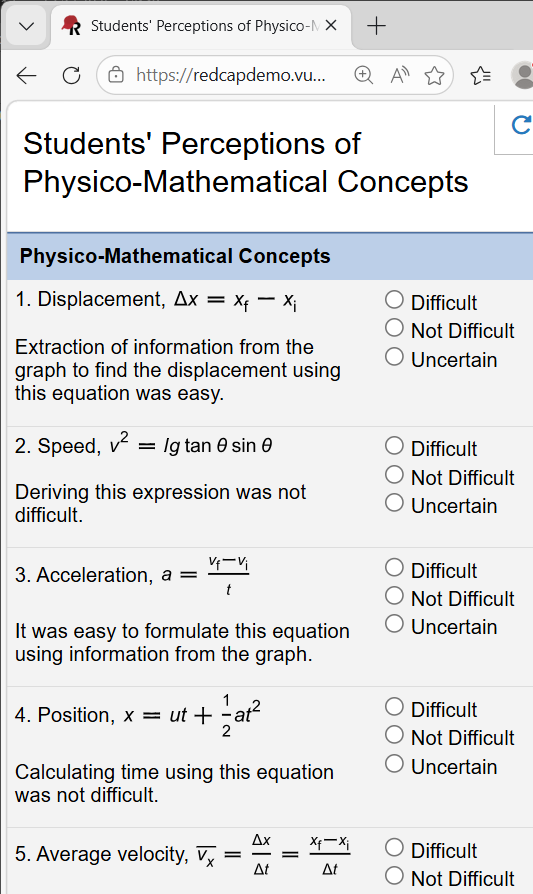
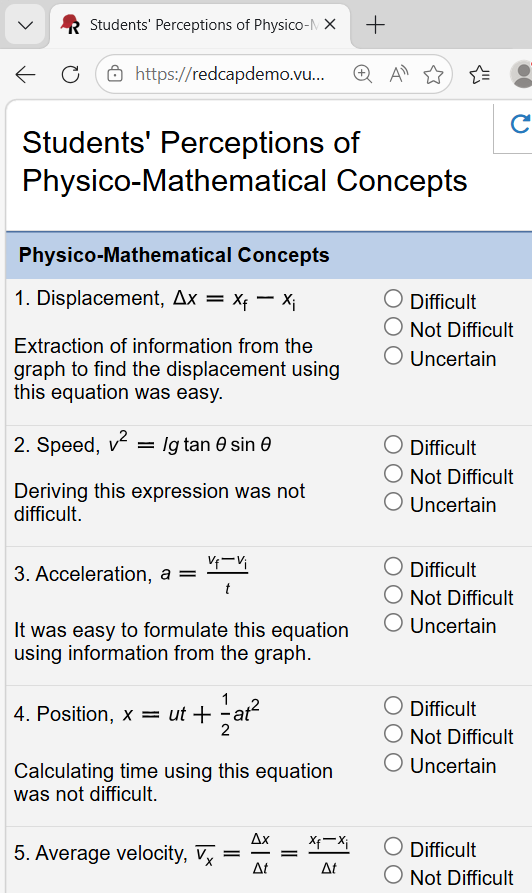
Image refinements.

diff --git a/README.md b/README.md
@@ -6,8 +6,8 @@ REDCap [1, 2] is a platform for managing online data collection. LaTeX-style mar
 
 ---
 
-<figure style="height:894px;">
-  <img src="Images/survey_screenshot.png" alt="REDCap survey with LaTeX-derived mathematical notation." width="533" height="894">
+<figure style="height:893px;">
+  <img src="Images/survey_screenshot.png" alt="REDCap survey with LaTeX-derived mathematical notation." width="532" height="893">
   <figcaption>Figure 1. REDCap survey with LaTeX-derived mathematical notation. Equations are SVG images generated via LuaLaTeX and pdftocairo.</figcaption>
 </figure>
 
